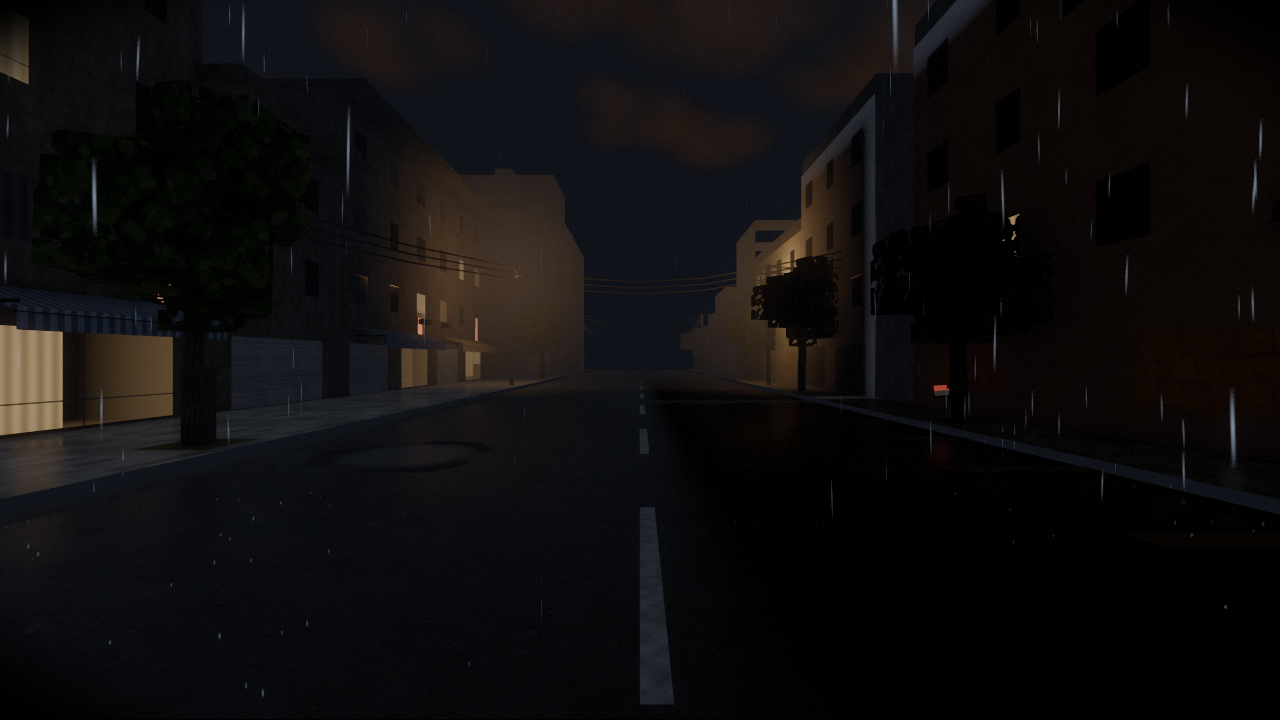
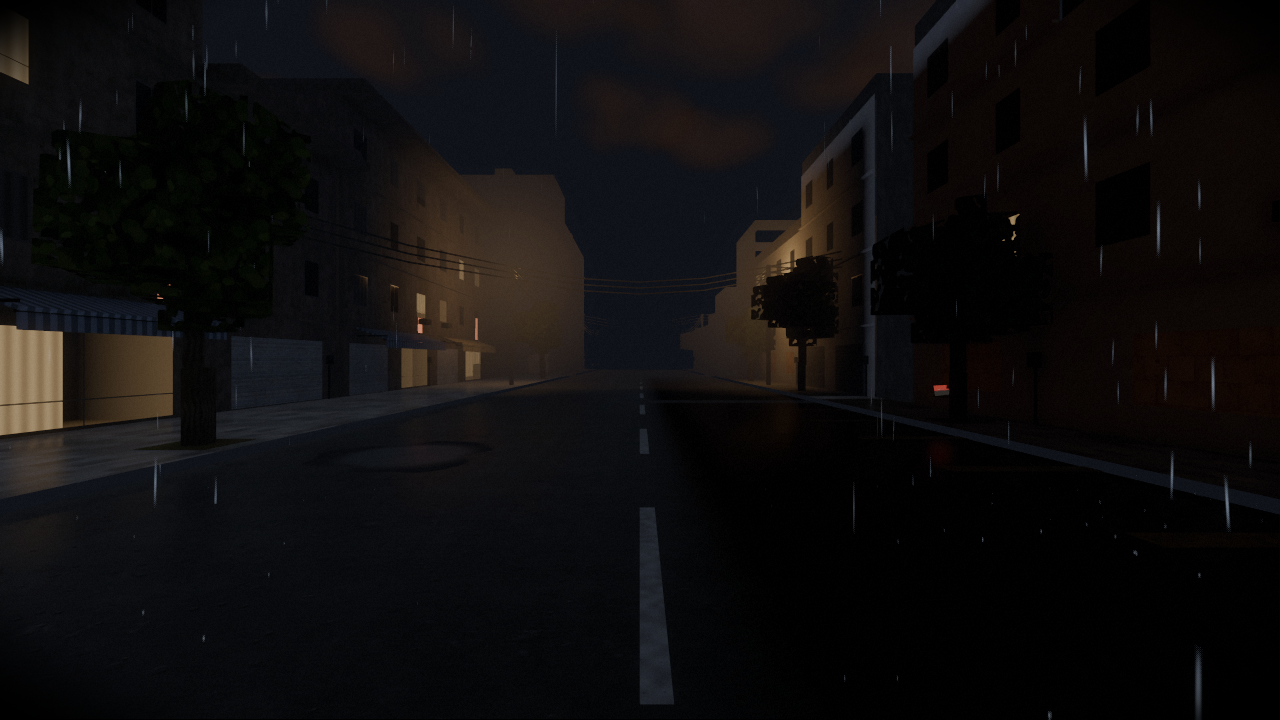
Fase 11: pingadeira por laje e medidor de luz na fachada
O detalhe que se ve da calcada, e que faltava para o predio deixar de ser
caixa lisa: a aba de 7 cm na altura de cada laje (que na rua existe para a
agua nao escorrer pela parede inteira, e que de quebra da uma sombra
horizontal a cada tres metros) e o medidor de luz com conduite descendo.

Custo medido: +6.512 triangulos nos 25 chunks carregados (75.394 -> 81.906,
+8,6%) e nenhuma chamada de desenho nova, porque sao os materiais que a
fachada ja usava.

A37 (casa em 4K) fica adiado com o motivo escrito no plano: medido, o
casa_atlas veste interior e prop, e nao fachada de rua; quem aparece de perto
na calcada ja tem conjunto HD proprio.

A2 OK depois de regravar os dois presets. A1 OK.

diff --git a/PLANO_AAA_4K.md b/PLANO_AAA_4K.md
@@ -966,10 +966,21 @@ o olho vê na viela.
 referências dos dois presets foram regravadas; o contrato A2 continua valendo
 para toda mudança de renderizador, que é para o que ele existe.
 
-**O que falta nesta fase (A37).** A casa em 4K: `casa_atlas` ainda é o atlas de
-256 px e não tem conjunto HD, então a casa do bairro continua sem detalhe de
-perto. Junto com ela, o detalhe fino de rua mineira — barrado de azulejo,
-medidor de luz, número da casa, fiação da entrada.
+**Detalhe de fachada (parte do A36).** Pingadeira de 7 cm na altura de cada
+laje e medidor de luz com conduíte descendo, na `KitModular.fachada`. A
+pingadeira existe na rua de verdade porque é ela que impede a água de escorrer
+pela parede inteira, e de quebra é ela que quebra o paredão: uma sombra
+horizontal a cada três metros. **Custo: +6.512 triângulos nos 25 chunks
+carregados (75.394 → 81.906, +8,6%)**, e nenhuma chamada de desenho nova — são
+os materiais que a fachada já usava.
+
+**O que ficou de fora, e por quê (A37).** O critério A37 pedia a casa em 4K
+porque `casa_atlas` é o único conjunto de 256 px sem versão HD. Medido: esse
+atlas veste **interior e prop** (`casa_fumaca_builder`, cigarro, tela de
+celular, estufa), e não fachada de rua — nenhuma parede de quadra usa ele. Em
+4K, quem aparece de perto na calçada são reboco, tijolo, telha, porta, janela e
+portão de aço, e esses seis já têm conjunto próprio. **A37 fica adiado** até a
+frente da Casa da Fumaça encostar nele, que é de quem aquele atlas é.
 
 ### Fase 7 — Carro AAA completo · G
 
